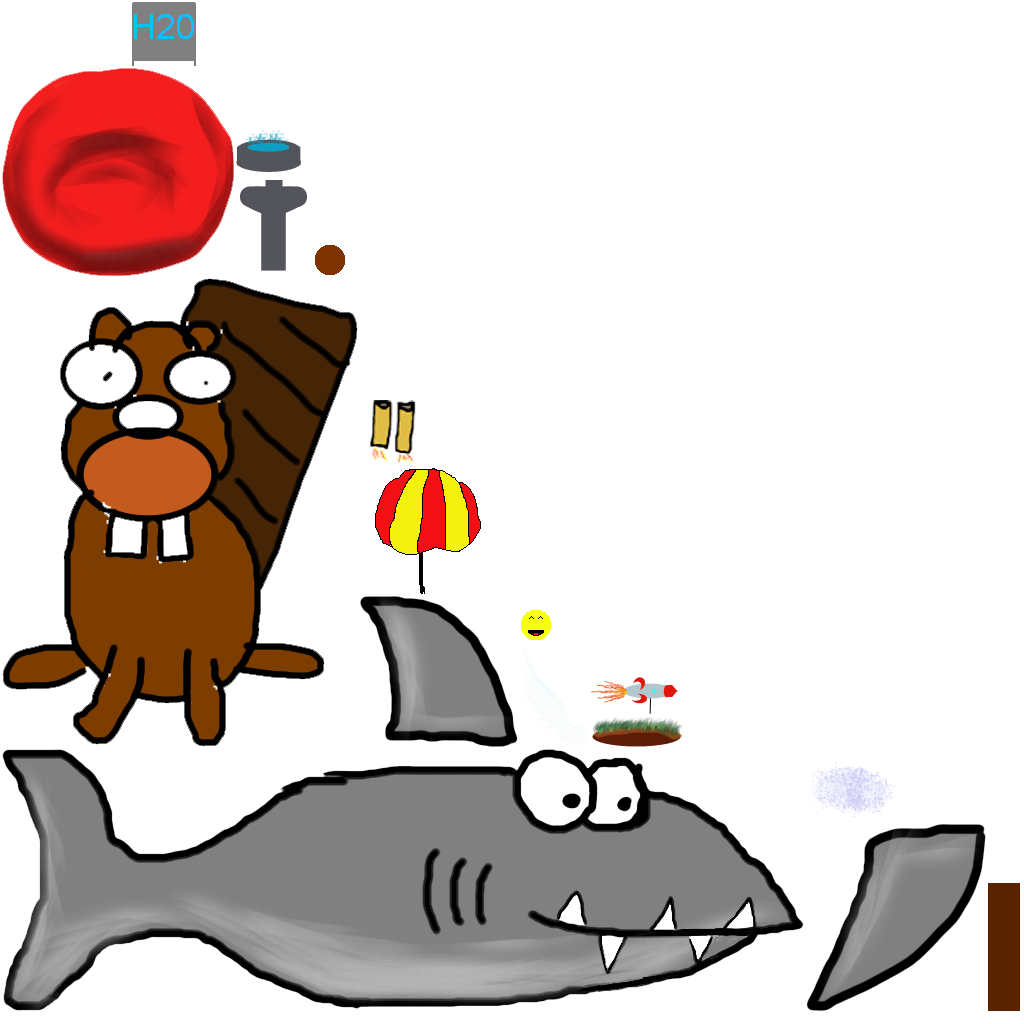
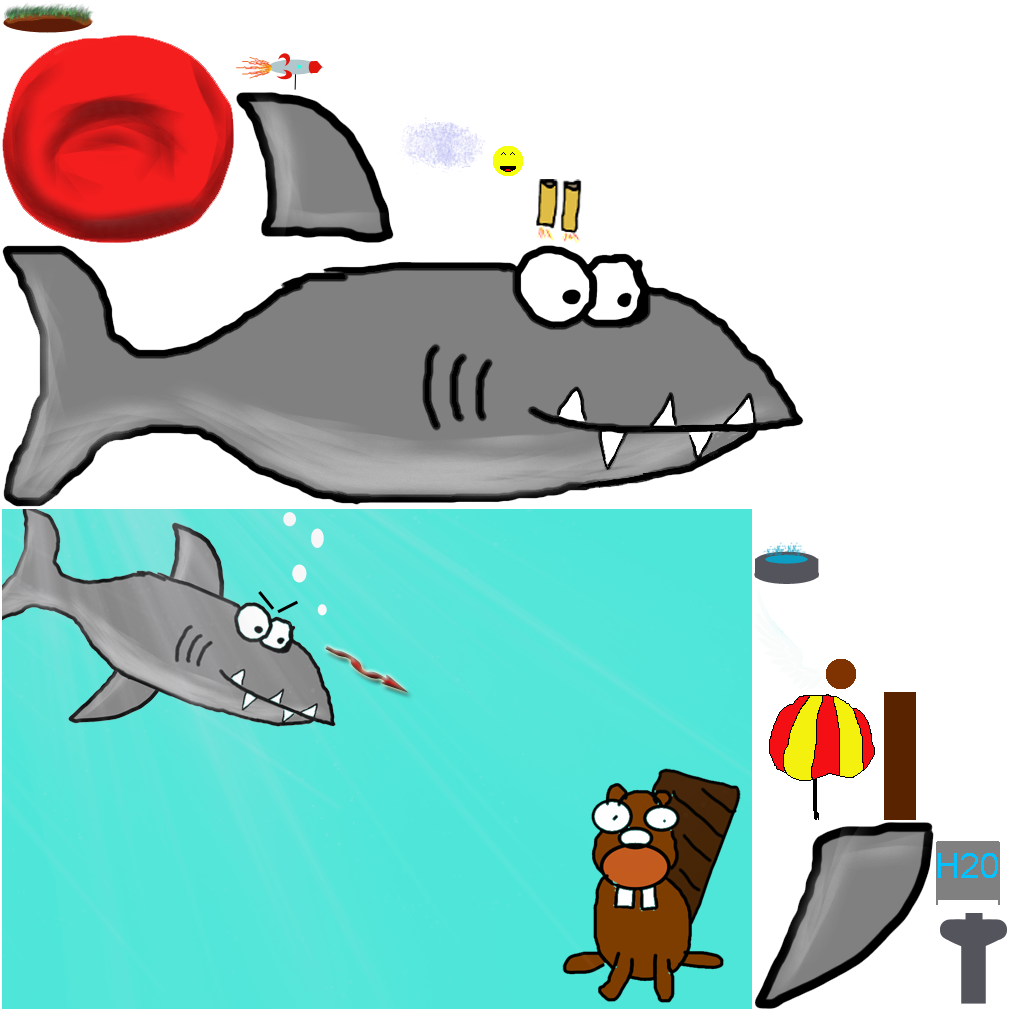
title screen PRETTIFIED

diff --git a/BeaversMustDie/src/com/kevlanche/beaversmustdie/TitleScreen.java b/BeaversMustDie/src/com/kevlanche/beaversmustdie/TitleScreen.java
@@ -4,9 +4,11 @@ import com.badlogic.gdx.Gdx;
 import com.badlogic.gdx.Input.Keys;
 import com.badlogic.gdx.InputAdapter;
 import com.badlogic.gdx.Screen;
+import com.badlogic.gdx.graphics.Color;
 import com.badlogic.gdx.graphics.GL10;
 import com.badlogic.gdx.math.MathUtils;
 import com.badlogic.gdx.scenes.scene2d.Stage;
+import com.badlogic.gdx.scenes.scene2d.actions.Actions;
 import com.bitfire.postprocessing.PostProcessor;
 import com.bitfire.utils.ShaderLoader;
 
@@ -39,27 +41,29 @@ public class TitleScreen extends InputAdapter implements Screen {
 		stage.addActor(new BackgroundImage());
 
 		LBL title = new LBL("Beavers must die!", 3.0f);
-		title.position(Mane.WIDTH/2, Mane.HEIGHT*0.75f, 0.5f, 0.75f);
+		title.position(Mane.WIDTH*0.75f, Mane.HEIGHT*0.85f, 0.5f, 0.75f);
 		stage.addActor(title);
+		
+		title.addAction( Actions.forever( Actions.sequence( Actions.color(Color.RED, 1.0f), Actions.color(Color.BLUE, 1.0f), Actions.color(Color.MAGENTA, 1.0f))));
 
-		LBL seedMsg = new LBL("Enter a seed (or leave empty for random)", 2.0f);
-		seedMsg.position(Mane.WIDTH/2, Mane.HEIGHT*0.6f, 0.5f, 0.5f);
+		LBL seedMsg = new LBL("Enter a seed or leave empty for random", 2.0f);
+		seedMsg.position(Mane.WIDTH*0.4f, Mane.HEIGHT*0.45f, 0.5f, 0.5f);
 		stage.addActor(seedMsg);
 
 		seed = new LBL("**", 2.0f);
-		seed.position(Mane.WIDTH/2, Mane.HEIGHT*0.55f, 0.5f, 0.5f);
+		seed.position(Mane.WIDTH*0.4f, Mane.HEIGHT*0.4f, 0.5f, 0.5f);
 		stage.addActor(seed);
 
-		LBL mapSizeMsg = new LBL("Use arrow keys (left & right) to change map size", 2.0f);
-		mapSizeMsg.position(Mane.WIDTH/2, Mane.HEIGHT*0.4f, 0.5f, 0.5f);
+		LBL mapSizeMsg = new LBL("Use left and right arrow keys to change map size", 2.0f);
+		mapSizeMsg.position(Mane.WIDTH*0.4f, Mane.HEIGHT*0.3f, 0.5f, 0.5f);
 		stage.addActor(mapSizeMsg);
 
 		mapSize = new LBL("*"+ mapSizeMsg() +"*", 2.0f);
-		mapSize.position(Mane.WIDTH/2, Mane.HEIGHT*0.35f, 0.5f, 0.5f);
+		mapSize.position(Mane.WIDTH*0.4f, Mane.HEIGHT*0.25f, 0.5f, 0.5f);
 		stage.addActor(mapSize);
 
 		LBL startMsg = new LBL("Press enter to start!", 2.0f);
-		startMsg.position(Mane.WIDTH/2, Mane.HEIGHT*0.2f, 0.5f, 0.5f);
+		startMsg.position(Mane.WIDTH*0.4f, Mane.HEIGHT*0.125f, 0.5f, 0.5f);
 		stage.addActor(startMsg);
 
 		postProcessor.addEffect( ripple );

diff --git a/BeaversMustDie/src/com/kevlanche/beaversmustdie/Assets.java b/BeaversMustDie/src/com/kevlanche/beaversmustdie/Assets.java
@@ -10,6 +10,8 @@ public class Assets {
 	
 	public static TextureAtlas atlas;
 	
+	public static TextureRegion background ;
+	
 	public static TextureRegion alphabet, smiley, earthCore, island, pole, silo, cloud, beaver, blood, pool, tower, top_fin_rocket;
 	
 	public static TextureRegion shark ;
@@ -21,6 +23,9 @@ public class Assets {
 	
 	public static void load() {
 		atlas = new TextureAtlas(Gdx.files.internal("data/pack.atlas"));
+		
+		background = find("background");
+		
 		alphabet = find("alphabet");
 		smiley = find("smiley");
 		earthCore = find("earthcore");

diff --git a/BeaversMustDie/src/com/kevlanche/beaversmustdie/BackgroundImage.java b/BeaversMustDie/src/com/kevlanche/beaversmustdie/BackgroundImage.java
@@ -9,7 +9,7 @@ public class BackgroundImage extends Actor {
 	@Override
 	public void draw(SpriteBatch batch, float parentAlpha) {
 		
-		batch.draw(Assets.beaver, 0, 0, 0.0f, 0.0f, Mane.WIDTH, Mane.HEIGHT, 1.0f, 1.0f, 0);
+		batch.draw(Assets.background, 0, 0, 0.0f, 0.0f, Mane.WIDTH, Mane.HEIGHT, 1.0f, 1.0f, 0);
 	}
 	
 }
